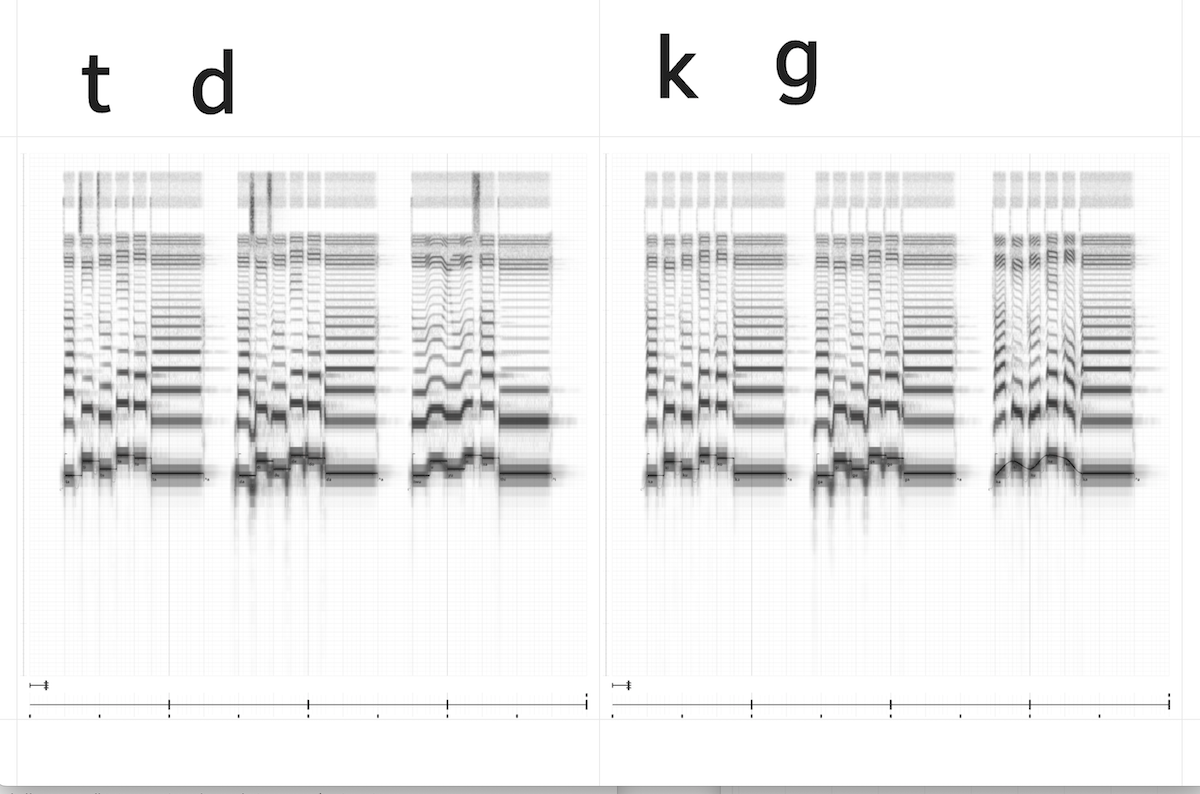
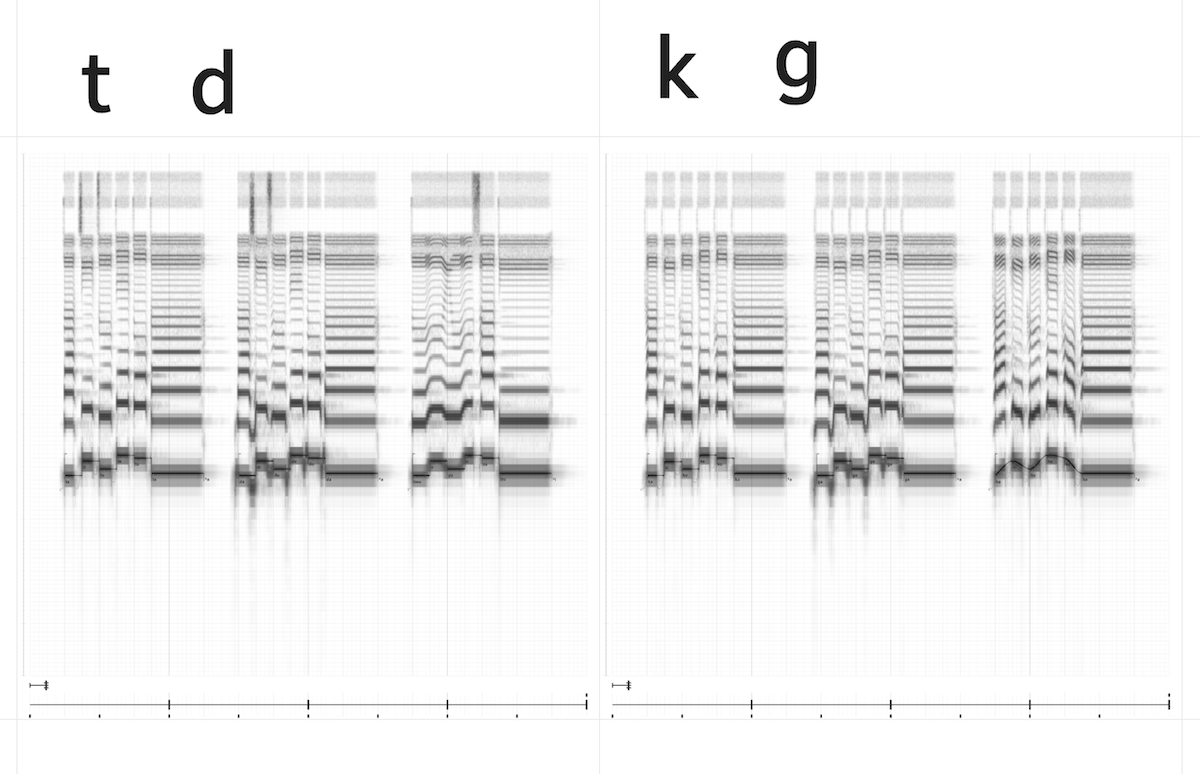
c

diff --git a/Readme.md b/Readme.md
@@ -31,11 +31,11 @@ Mac内蔵のトラックパッドまたは Magic Trackpad 必須<br>
 
 　例えば「英数」と「かな」（あるいは「ABC」と「あいう」）入力においては、まずそれらが打ちやすいところにあり、「英数」ボタンを押して（短期記憶にある間）文字を打つ、「かな」ボタンを押して（短期記憶にある間）文字を打つ、という行為がそれぞれ一つのジェスチャーとして習慣化されているためにあまり問題なく機能します。それでも長期間同じモードで打ち続けていたりすると間違えることがあります。取り消しで元に戻せても、集中力やイメージに少なからず影響してしまうことがあったので、ストロークでその妥協はしたくありませんでした。覚えることが増えるという弱点はありますが、頻度が非常に高いストロークやキー入力だけでもなるべくその場で、そのままの状態で入力できるようにしておきたかったため、今回の設計思想としました。
 
-　ジェフ・ラスキンは著書『ヒューメイン・インターフェース』^{(1)}の中でモードについて次のように述べています。
+　ジェフ・ラスキンは著書『ヒューメイン・インターフェース』<sup>(1)</sup>の中でモードについて次のように述べています。
 
 >あるジェスチャに対してマン・マシン・インタフェースがモードを持つのは, (1) インターフェースの現在の状態がユーザの注意の所在となっておらず, (2) そのジェスチャに対して複数の異なった応答がインタフェースによって実行される場合
 
-　コンピュータ上での注意の所在がユーザーの注意の所在と一致しており、その注意の所在に対して何かのジェスチャーが常に同じ結果を持てばモードの問題を回避できるということになります。逆に考えれば、何かのジェスチャーに対して、注意の所在ごとに特定の操作を持たせることが可能です。このソフトウェアでは行動によるモードをアクションとし、アクション名の範疇で、対するオブジェクトの種類や形によってアクションの結果が変化します。例えば楽譜上に線を引けば音符線になり、線の端で移動すれば逆の端を基準としたワープ変形になったりしますが、それらは常に統一的なルールで、ある行動に対して１通りだけの即時的なフィードバックがあるため学習しやすく、モードの問題を受けにくいようになっています。上野学は著書『モードレス・デザイン』^{(2)}の中で次のように述べています。
+　コンピュータ上での注意の所在がユーザーの注意の所在と一致しており、その注意の所在に対して何かのジェスチャーが常に同じ結果を持てばモードの問題を回避できるということになります。逆に考えれば、何かのジェスチャーに対して、注意の所在ごとに特定の操作を持たせることが可能です。このソフトウェアでは行動によるモードをアクションとし、アクション名の範疇で、対するオブジェクトの種類や形によってアクションの結果が変化します。例えば楽譜上に線を引けば音符線になり、線の端で移動すれば逆の端を基準としたワープ変形になったりしますが、それらは常に統一的なルールで、ある行動に対して１通りだけの即時的なフィードバックがあるため学習しやすく、モードの問題を受けにくいようになっています。上野学は著書『モードレス・デザイン』<sup>(2)</sup>の中で次のように述べています。
 　
 >モードがない状態はモードレスと表現されるが、それは解釈の仕方が存在しないという意味ではなく、解釈が一定していて変わらないということである。つまり、モーダルデザインとはモードが変化するデザインのことであり、モードレスデザインとはモードがひとつだけあって変化しないデザインのことなのである。ソフトウェアは使用者の操作に応じて何らかの反応を示す。その意味を解釈するのは使用者である。解釈がなければコンピューターはただの箱である。道具が意味を持つならば、そこには必ず解釈＝モードがあるということだ。<br>
 >　では、インターフェースからモードを除去していった時に最後に残るモードとは何か。それはシステムの振る舞いを純粋な仕方で使用者が解釈している、そういう状態だろう。だから最後に残るひとつのモードは、使用者があらかじめ持っているモードなのである。
@@ -68,7 +68,7 @@ Mac内蔵のトラックパッドまたは Magic Trackpad 必須<br>
 
 <img src="Rasen/Images/Readme13.gif" alt="タイムラインと補間" width="50%"><br>
 　追加できるタイムラインは楽譜に限らず、秒ではなくビートが基準になっています。動画の標準フレームレートを満たすようにテンポを調整することも可能です。コピーした線のＩＤを使用して、前述のアクション設計によって別の時間軸の線と素早く補間することができ、それによって作画の全体や一部分を綺麗に滑らかに動かせたりできます。タイムラインを持つシートを縦横に並べていくことで絵コンテから仕上げまで同じ形式で作業を続けることができます。同じ時間のタイムラインを持つシートを上下に連ねると上下の線が薄く転写されるため、それをレイヤーとして使用できます。また、楽譜シートと作画シートを同時に再生することができます。
-　
+
 <img src="Rasen/Images/Readme14.png" alt="楽譜" width="25%"><br>
 　楽譜は常にリアルタイムで引かれた音符の和音を最小の和音の組み合わせで、音量も考慮して背景に表記します。どこにトライトーンがあったり、メジャーコードがあったりするかを視覚的にも把握できるようになっており、それらの組み合わせを覚えることで四和音以上も把握できるようになっています。楽譜上でキー入力をすることで声の入力になります。最大限ズームした状態で音符を移動することで他の音符に対して相対的な純正比率を設定することもでき、許容できる音程のズレを考えることで平均律と純正律を自由に行き来できます。
 <br>
@@ -110,23 +110,20 @@ Mac内蔵のトラックパッドまたは Magic Trackpad 必須<br>
 - macOSのバグにより、OSのスリープ復帰後に一部の内蔵トラックパッドのイベント（func touchesBegan(with nsEvent: NSEvent) 関連）が届かなくなることがあるため、迂回方法として文書化されていない関数を使用しています。そのため、macOSの将来のバージョンでは動作しなくなる恐れがあります。また、迂回方法は完全ではなく、スリープ前に内蔵トラックパッドをソフトウェア内で一度も使用せずにスリープを行って問題が発生した場合はうまく動作しません。その場合、ソフトウェアを起動し直すことで治ります。修正方法として、バックグラウンドアプリに分離してスリープごとにそれを再起動する方法など模索中です。
 
 - 上記の問題などにより、Mac App Store での公開を延期しております。野良アプリとしての単独での公証は未定です。
-<br>
 
 ## プライバシーポリシー
 本ソフトウェアはデータを収集しません。詳しくは
-[プライバシーポリシー](Rasen/PrivacyPolicy.md)をご確認ください。
-<br>
+[プライバシーポリシー](Rasen/PrivacyPolicy.md)をご確認ください。<br>
 
 ## ライセンス
 [GNU General Public License v3.0](License.md)
 
 ©︎2026 [Cii](https://twitter.com/cii0000)
-<br>
 
 ## 謝辞
 [本ファイル群に関する謝辞](Rasen/Acknowledgments.txt)
 
-参考文献：
+参考文献：<br>
 (1) ジェフ・ラスキン、村上雅章訳(2001) 『ヒューメイン・インタフェース: 人にやさしいシステムへの新たな指針』 ピアソン・エデュケーション. pp.47-48.<br>
 (2) 上野 学(2025). 『モードレスデザイン　意味空間の創造』 ビー・エヌ・エヌ. Kindle版 p.351.
 